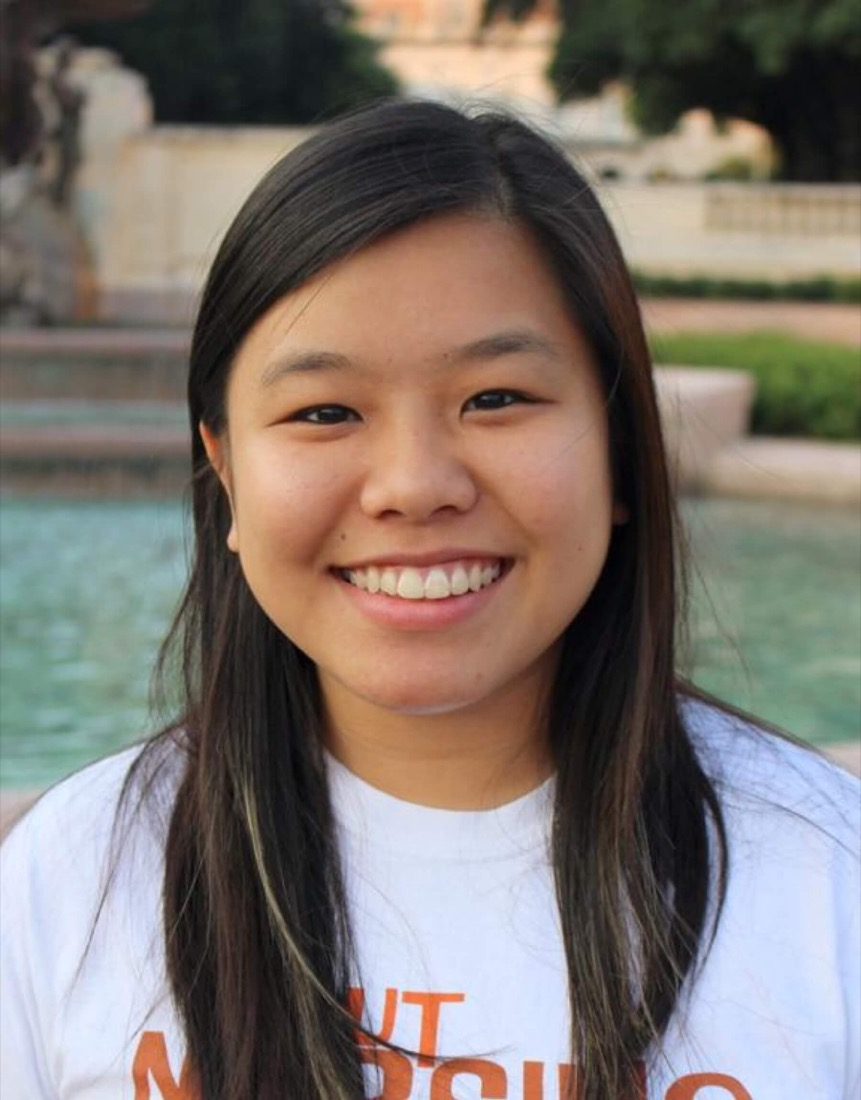
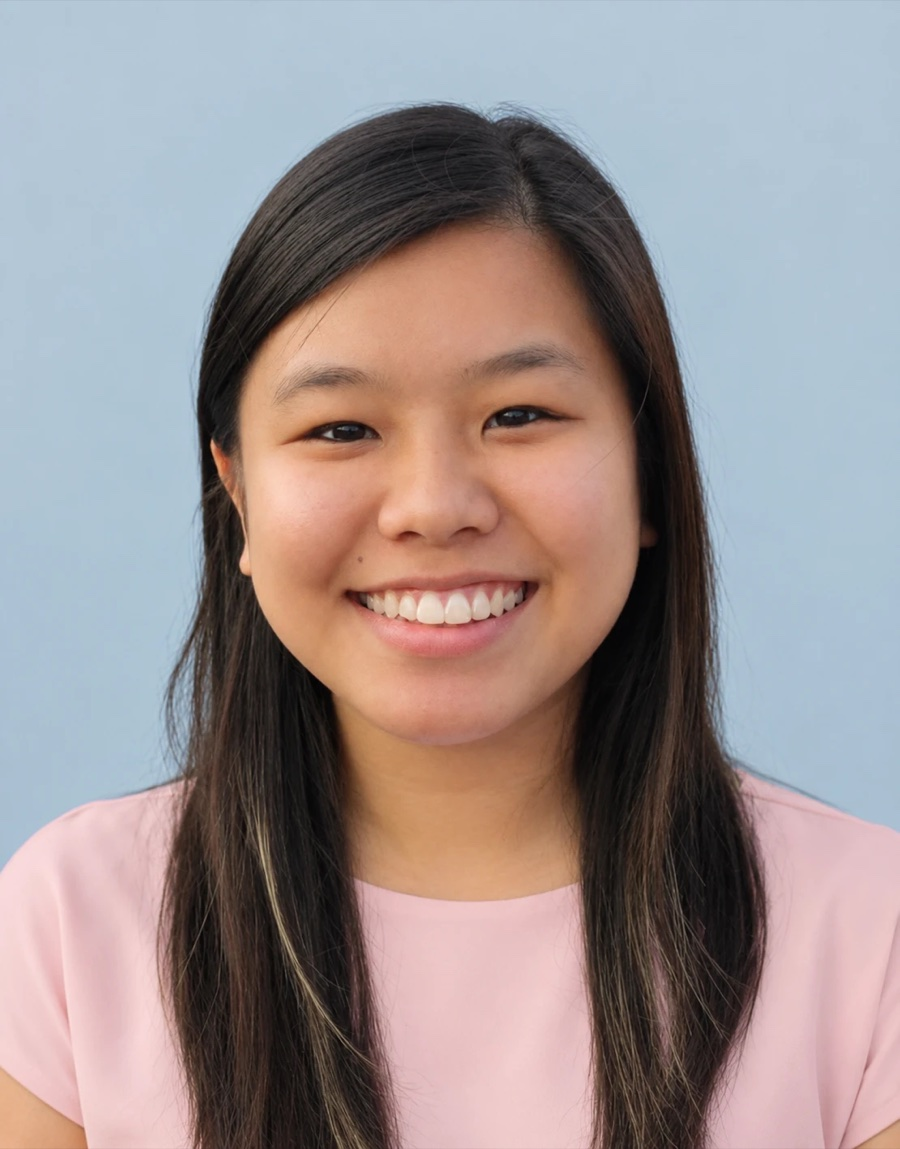
About: new intro (angled photo + scroll-linked tilt) + My story
- Intro: large serif lead copy on the left, headshot on the right —
  angled with rounded corners and a solid gold card layered behind it.
- Photo has a scroll-linked tilt (Rahul-style): it rotates gently as it
  moves through the viewport, with the card drifting behind. Driven by a
  rAF scroll handler; respects prefers-reduced-motion (static tilt).
- 'My story' section below (nursing-to-design narrative), left-aligned.
- New portrait asset (assets/liana-portrait.jpg), cache-busted.
- Footer: keep 'I'm open to remote product design roles...' on one line.

diff --git a/about.html b/about.html
@@ -97,20 +97,23 @@
   body.scrolled .nav-links a { color: var(--ink-2); }
   body.scrolled .nav-links a:hover, body.scrolled .nav-links a.is-active { color: var(--gold); }
 
-  /* ============ HEADER ============ */
-  .head {
-    position: relative; min-height: 62vh; display: flex; align-items: center;
-    padding: 150px 0 90px; background: #E7E2DA; overflow: hidden;
+  /* ============ INTRO (text left, angled photo right) ============ */
+  .intro2 { background: var(--white); padding: clamp(128px, 15vh, 176px) 0 clamp(66px, 9vw, 104px); overflow: hidden; }
+  .intro2-grid { display: grid; grid-template-columns: 1.08fr 0.92fr; gap: clamp(40px, 6vw, 96px); align-items: center; }
+  .intro2-lead {
+    font-family: var(--serif); font-weight: 700; color: var(--ink);
+    font-size: clamp(20px, 2.3vw, 28px); line-height: 1.34; letter-spacing: 0.002em;
   }
-  .head-bg { position: absolute; inset: 0; width: 100%; height: 100%; object-fit: cover; object-position: center center; z-index: 0; }
-  .head::before { display: none; }
-  .head-inner { position: relative; z-index: 2; }
-  .head .eyebrow { color: var(--gold); }
-  .head .eyebrow::before { background: var(--gold); }
-  .head-name {
-    font-family: var(--serif); font-weight: 700; color: var(--hero-ink);
-    font-size: clamp(36px, 6vw, 60px); line-height: 1.08; letter-spacing: 0.005em;
-  }
+  .intro2-lead .wave { margin-right: 0.14em; }
+
+  .photo-stack { position: relative; width: min(100%, 320px); margin: 0 auto; }
+  .photo-card { position: absolute; inset: 0; z-index: 0; background: var(--gold); border-radius: 18px; transform: rotate(3.2deg) translate(16px, 14px); will-change: transform; }
+  .photo { position: relative; z-index: 1; display: block; width: 100%; height: auto; border-radius: 18px; transform: rotate(-2deg); box-shadow: 0 26px 58px -26px rgba(31,27,20,0.5); will-change: transform; }
+
+  /* ============ MY STORY ============ */
+  #story { scroll-margin-top: 94px; }
+  .story { max-width: 72ch; }
+  .story p { color: var(--ink); font-size: clamp(17px, 1.25vw, 19px); line-height: 1.76; }
 
   /* ============ SECTIONS ============ */
   .band { padding: clamp(78px, 10vw, 128px) 0; }
@@ -120,15 +123,6 @@
   .section-head p { max-width: none; }
   .section-head h2 { font-family: var(--serif); font-weight: 700; color: var(--ink); font-size: clamp(26px, 3.4vw, 36px); line-height: 1.14; letter-spacing: -0.005em; }
   .section-head p { margin-top: 16px; color: var(--ink); font-size: 17px; }
-
-  /* intro: portrait + bio */
-  .intro { display: grid; grid-template-columns: 0.82fr 1.18fr; gap: clamp(40px, 6vw, 84px); align-items: center; }
-  .intro-portrait { width: 100%; height: auto; }
-  .intro-body { border-left: 1.5px solid var(--case-rule); padding-left: clamp(22px, 2.2vw, 36px); }
-  .intro-body .eyebrow { margin-bottom: 16px; }
-  .intro-body h1 { font-family: var(--serif); font-weight: 700; color: var(--ink); font-size: clamp(28px, 3.6vw, 40px); line-height: 1.12; margin-bottom: 22px; }
-  .intro-body p { color: var(--ink); font-size: 17px; margin-bottom: 16px; max-width: 52ch; }
-  .intro-body p:last-child { margin-bottom: 0; }
 
   /* process steps */
   .steps { display: grid; grid-template-columns: repeat(2, 1fr); gap: clamp(32px, 4vw, 54px); }
@@ -151,7 +145,7 @@
   /* contact close */
   .contact-band { text-align: center; }
   .contact-band h2 { font-family: var(--serif); font-weight: 700; color: var(--ink); font-size: clamp(28px, 4vw, 44px); line-height: 1.12; }
-  .contact-band p { color: var(--ink-2); font-size: 18px; margin: 18px auto 32px; max-width: 42ch; }
+  .contact-band p { color: var(--ink-2); font-size: 18px; margin: 18px auto 32px; max-width: none; }
   .contact-actions { display: inline-flex; align-items: center; gap: 22px; flex-wrap: wrap; justify-content: center; }
   .ca-email {
     background: none; border: none; font: inherit; cursor: pointer; position: relative;
@@ -191,9 +185,11 @@
   /* responsive */
   @media (max-width: 860px) {
     body { font-size: 16px; }
-    .intro { grid-template-columns: 1fr; gap: 30px; }
-    .intro-portrait { max-width: 320px; }
-    .intro-body { border-left: none; padding-left: 0; }
+    .intro2 { padding-top: clamp(112px, 20vh, 150px); }
+    .intro2-grid { grid-template-columns: 1fr; gap: 38px; }
+    .intro2-copy { order: 1; }
+    .intro2-media { order: 2; }
+    .photo-stack { margin: 6px auto 0; }
     .steps { grid-template-columns: 1fr; gap: 30px; }
     .quotes { grid-template-columns: 1fr; gap: 34px; }
   }
@@ -227,27 +223,29 @@
   </div>
 </nav>
 
-<!-- HEADER -->
-<header class="head">
-  <img class="head-bg" src="assets/hero-bg.jpg" alt="" aria-hidden="true">
-  <div class="head-inner wrap reveal">
-    <div class="eyebrow">About</div>
-    <h1 class="head-name">Hi, I'm Liana.</h1>
-  </div>
-</header>
-
-<!-- INTRO: portrait + bio -->
-<section class="band band-white">
+<!-- INTRO: text left, angled photo right -->
+<section class="intro2">
   <div class="wrap">
-    <div class="intro reveal">
-      <img class="intro-portrait" src="assets/liana-portrait.jpg" alt="Portrait of Liana Rego">
-      <div class="intro-body">
-        <div class="eyebrow">Behind the portrait</div>
-        <h1>Nurse turned product designer.</h1>
-        <p>I'm a nurse-turned-product designer with over 5 years of design experience across fintech and healthcare.</p>
-        <p>I excel in designing in a fast-paced setting, learning new tools and skills quickly with a can-do attitude, and looking at problems with an astute attention to detail.</p>
-        <p>I care about craft — how clearly things communicate, handle edge cases, and build trust. Always in &ldquo;let me try this&rdquo; mode: curious, building, and exploring.</p>
+    <div class="intro2-grid">
+      <div class="intro2-copy reveal">
+        <p class="intro2-lead"><span class="wave" aria-hidden="true">&#128075;</span> Hi, I'm Liana, a designer with 5+ years of experience designing complex digital products. I'm best at translating messy requirements into clean, usable interfaces: meticulous by nature, empathetic by practice.</p>
       </div>
+      <div class="intro2-media reveal">
+        <div class="photo-stack">
+          <span class="photo-card" aria-hidden="true"></span>
+          <img class="photo" src="assets/liana-portrait.jpg?v=2" alt="Portrait of Liana Rego" width="900" height="1149">
+        </div>
+      </div>
+    </div>
+  </div>
+</section>
+
+<!-- MY STORY -->
+<section class="band band-white" id="story">
+  <div class="wrap">
+    <div class="story reveal">
+      <div class="eyebrow">My story</div>
+      <p>I came to product design through nursing. Five years at the bedside taught me how to work inside complex systems where the stakes are real, such as how to hold many variables at once, how to move through multi-step protocols without missing a step, and how to listen to the person in front of me as the real source of truth. Those same instincts shape every project I ship. Today I design highly complex B2B platforms where the stakes are different but the discipline is the same.</p>
     </div>
   </div>
 </section>
@@ -355,7 +353,7 @@
       entries.forEach(function (en) { if (en.isIntersecting) { en.target.classList.add('in'); io.unobserve(en.target); } });
     }, { threshold: 0.1, rootMargin: '0px 0px -8% 0px' });
     els.forEach(function (e) { io.observe(e); });
-    requestAnimationFrame(function () { document.querySelectorAll('.head .reveal').forEach(function (e) { e.classList.add('in'); }); });
+    requestAnimationFrame(function () { document.querySelectorAll('.intro2 .reveal').forEach(function (e) { e.classList.add('in'); }); });
   })();
 
   // Copy email (both the fixed one and the contact-close one)
@@ -371,6 +369,30 @@
     }
     wire(document.getElementById('copyEmail'));
     wire(document.getElementById('copyEmailBig'));
+  })();
+
+  // Scroll-linked tilt on the About photo (Rahul-style): the photo gently
+  // rotates as it moves through the viewport, with the card drifting behind it.
+  (function () {
+    var stack = document.querySelector('.photo-stack');
+    var photo = document.querySelector('.photo');
+    var card  = document.querySelector('.photo-card');
+    if (!stack || !photo || !card) return;
+    if (window.matchMedia && window.matchMedia('(prefers-reduced-motion: reduce)').matches) return;
+    var ticking = false;
+    function update() {
+      ticking = false;
+      var r = stack.getBoundingClientRect();
+      var vh = window.innerHeight || document.documentElement.clientHeight;
+      var p = ((r.top + r.height / 2) - vh / 2) / (vh / 2); // + below center, - above
+      p = Math.max(-0.7, Math.min(0.3, p));
+      photo.style.transform = 'rotate(' + (-7 - p * 13).toFixed(2) + 'deg)';
+      card.style.transform  = 'rotate(' + (4 + p * 4).toFixed(2) + 'deg) translate(16px, ' + (14 - p * 10).toFixed(1) + 'px)';
+    }
+    function onScroll() { if (!ticking) { ticking = true; requestAnimationFrame(update); } }
+    window.addEventListener('scroll', onScroll, { passive: true });
+    window.addEventListener('resize', onScroll, { passive: true });
+    update();
   })();
 </script>
 </body>
